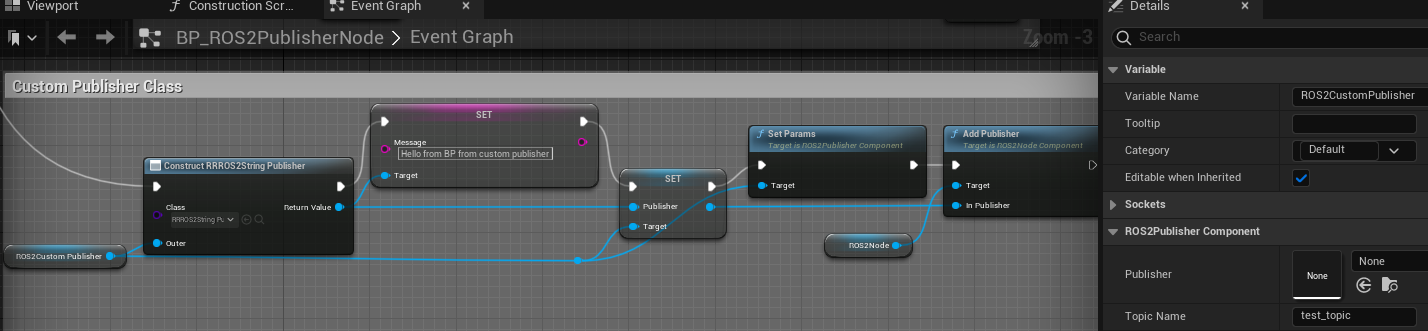
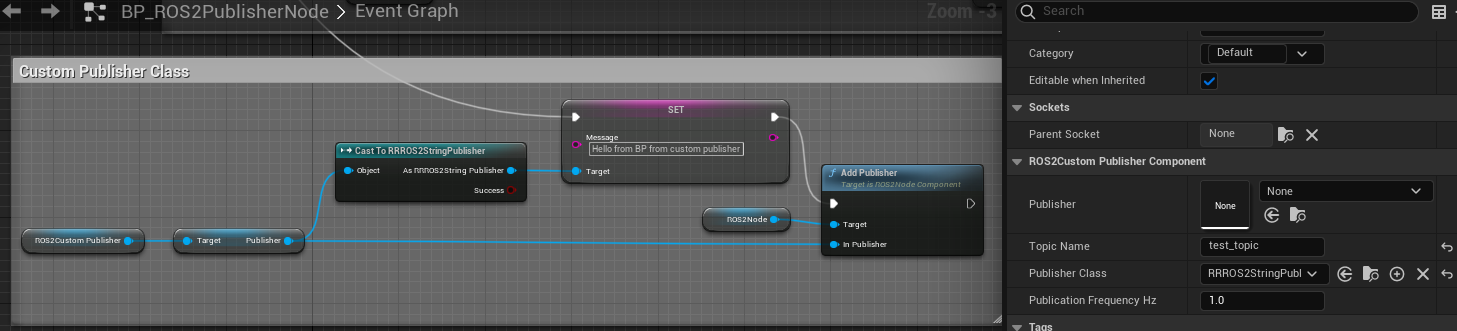
minor update

diff --git a/Source/rclUE/Public/ROS2Publisher.h b/Source/rclUE/Public/ROS2Publisher.h
@@ -284,10 +284,26 @@ public:
  *
  */
 UCLASS(Blueprintable, BlueprintType, ClassGroup = (Custom), meta = (BlueprintSpawnableComponent))
-class RCLUE_API UROS2CustomPublisherComponent : public UROS2PublisherComponent
+class RCLUE_API UROS2CustomPublisherComponent : public UActorComponent
 {
     GENERATED_BODY()
+
 public:
+    UPROPERTY(EditAnywhere, BlueprintReadWrite)
+    UROS2Publisher* Publisher = nullptr;
+
+    //! this is pass to #UROS2Publisher::TopicName in #BeginPlay
+    UPROPERTY(EditAnywhere, BlueprintReadWrite)
+    FString TopicName = TEXT("");
+
+    //! this is pass to #UROS2Publisher::PublisherClass in #BeginPlay
+    UPROPERTY(EditAnywhere, BlueprintReadWrite)
+    TSubclassOf<UROS2Publisher> PublisherClass = UROS2Publisher::StaticClass();
+
+    //! this is pass to #UROS2Publisher::PublicationFrequencyHz in #BeginPlay
+    UPROPERTY(EditAnywhere, BlueprintReadWrite)
+    float PublicationFrequencyHz = 1.f;
+
     virtual void BeginPlay() override
     {
         if (Publisher == nullptr)
@@ -298,6 +314,6 @@ public:
         {
             UE_LOG_WITH_INFO(LogTemp, Warning, TEXT("Publisher class is not created in BeginPlay."));
         }
-        UActorComponent::BeginPlay();
+        Super::BeginPlay();
     };
 };

diff --git a/docs/source/examples/publisher_example.rst b/docs/source/examples/publisher_example.rst
@@ -3,7 +3,7 @@
 Publisher Example
 =============================
 
-Please follow the instructions in  :ref:`setup_and_run_ue_project` to set up the UE project 
+Please follow the instructions in  :ref:`setup_and_run_ue_project` to set up the UE project
 and open `ROS2TopicExample.umap <https://github.com/rapyuta-robotics/turtlebot3-UE/blob/devel/Content/Maps/ROS2TopicExamples.umap>`_.
 
 -----------------------------
@@ -125,26 +125,26 @@ Code
 Code explanations
 ^^^^^^^^^^^^^^^^^^
 
-In the constructor, 
-the `UROS2NodeComponent <../doxygen_generated/html/d7/d68/class_u_r_o_s2_node_component.html>`_ 
-is created using 
-`CreateDefaultSubobject <https://docs.unrealengine.com/4.26/en-US/API/Runtime/CoreUObject/UObject/UObject/CreateDefaultSubobject/2/>`_  
+In the constructor,
+the `UROS2NodeComponent <../doxygen_generated/html/d7/d68/class_u_r_o_s2_node_component.html>`_
+is created using
+`CreateDefaultSubobject <https://docs.unrealengine.com/4.26/en-US/API/Runtime/CoreUObject/UObject/UObject/CreateDefaultSubobject/2/>`_
 and its parameters such as Node Name and Namespace are set.
 
-Although the UROS2NodeComponent is created, 
-the ROS2 Node is not yet initialized at this point. 
-Initialization of the ROS2 Node occurs during the 
-`BeginPlay <https://docs.unrealengine.com/5.1/en-US/API/Runtime/Engine/GameFramework/AActor/BeginPlay/>`_ 
+Although the UROS2NodeComponent is created,
+the ROS2 Node is not yet initialized at this point.
+Initialization of the ROS2 Node occurs during the
+`BeginPlay <https://docs.unrealengine.com/5.1/en-US/API/Runtime/Engine/GameFramework/AActor/BeginPlay/>`_
 method, which is called when the simulation starts.
 
-One reason to initialize in BeginPlay is to create a ROS2 Node when the simulation starts. 
-It is important to note that the UE Class constructor may also be called before simulation starts, for example, 
+One reason to initialize in BeginPlay is to create a ROS2 Node when the simulation starts.
+It is important to note that the UE Class constructor may also be called before simulation starts, for example,
 when an Actor is placed in the level. For a better understanding of Actor Lifecycle, please refer to the
-`UE Actor LifeCycle <https://docs.unrealengine.com/5.1/en-US/unreal-engine-actor-lifecycle/>`_ 
+`UE Actor LifeCycle <https://docs.unrealengine.com/5.1/en-US/unreal-engine-actor-lifecycle/>`_
 However, understanding the entire lifecycle is not necessary to use rclUE.
 
-Another significant difference is that by initializing in BeginPlay, 
-variables such as publication frequency can be set in the editor and 
+Another significant difference is that by initializing in BeginPlay,
+variables such as publication frequency can be set in the editor and
 their changes will be reflected when running the simulation.
 If, in contrast, we initialize things in the constructor,
 variables changed in the editor would not reflect in the simulation,
@@ -161,7 +161,7 @@ unless we restart the editor.
         Node->Namespace = TEXT("cpp");
     }
 
-When simulation starts, BeginPlay is called. In the BeginPlay, 
+When simulation starts, BeginPlay is called. In the BeginPlay,
 firstly create and initialize ROS2 Node by calling
 `UROS2NodeComponent::Init  <../doxygen_generated/html/d7/d68/class_u_r_o_s2_node_component.html#ab9b7b990c4ca38eb60acf8e0a53c3e52>`_
 .
@@ -180,19 +180,19 @@ then starts adding publishers. We introduce 3 ways to add publisher here.
 Non Loop Publisher
 ~~~~~~~~~~~~~~~~~~~~~~
 
-This will create a publisher and publish a message once. 
-It is a straightforward way to publish a message, 
+This will create a publisher and publish a message once.
+It is a straightforward way to publish a message,
 involving creating a publisher, creating a message, and publishing the message.
 
-To create a publisher, use 
+To create a publisher, use
 `UROS2NodeComponent::CreatePublisher  <../doxygen_generated/html/d7/d68/class_u_r_o_s2_node_component.html#a5a7cb19de75e1970894efe2dcb4ac57c>`_
 
-Create a structure (FROSStr) for the contrasting message (UROSStrMsg) and 
-assign characters to the Data field. 
+Create a structure (FROSStr) for the contrasting message (UROSStrMsg) and
+assign characters to the Data field.
 Then, assign the structure to the message using the SetMsg method.
 
-Finally, call the 
-`UROS2Publisher::Publish <../doxygen_generated/html/d6/dd4/class_u_r_o_s2_publisher.html#a1c80608e01c7bdeb74ffe3bb82112222>`_ 
+Finally, call the
+`UROS2Publisher::Publish <../doxygen_generated/html/d6/dd4/class_u_r_o_s2_publisher.html#a1c80608e01c7bdeb74ffe3bb82112222>`_
 method to publish the topic.
 
 .. code-block:: C++
@@ -212,10 +212,10 @@ method to publish the topic.
 Loop Publisher
 ~~~~~~~~~~~~~~~~~~~~~~
 
-You can create a loop publisher by using the 
+You can create a loop publisher by using the
 `ROS2_CREATE_LOOP_PUBLISHER_WITH_QOS <../doxygen_generated/html/d1/d79/_r_o_s2_node_component_8h.html#aa037d93e1d31d5436f12553248889060>`_
-macro. 
-This macro creates a publisher and adds it to the node, 
+macro.
+This macro creates a publisher and adds it to the node,
 and then it periodically calls the AROS2PublisherNode::UpdateMessage method.
 
 .. code-block:: C++
@@ -231,8 +231,8 @@ and then it periodically calls the AROS2PublisherNode::UpdateMessage method.
                                             UROS2QoS::Default,
                                             LoopPublisher);
 
-UpdateMessage method does similar things as a non-loop publisher. 
-Since the loop publisher automatically calls the "Publish()" method, 
+UpdateMessage method does similar things as a non-loop publisher.
+Since the loop publisher automatically calls the "Publish()" method,
 you only need to create and set the message.
 
 .. code-block:: C++
@@ -244,9 +244,9 @@ you only need to create and set the message.
         CastChecked<UROS2StrMsg>(InMessage)->SetMsg(msg);
     }
 
-The implementation of ROS2_CREATE_LOOP_PUBLISHER_WITH_QOS is as follows. 
-It uses Unreal Engine's dynamic delegate to call a bound function periodically. 
-You can find more information about Unreal Engine's dynamic delegate 
+The implementation of ROS2_CREATE_LOOP_PUBLISHER_WITH_QOS is as follows.
+It uses Unreal Engine's dynamic delegate to call a bound function periodically.
+You can find more information about Unreal Engine's dynamic delegate
 `here <https://docs.unrealengine.com/5.1/en-US/dynamic-delegates-in-unreal-engine/>`_.
 
 .. code-block:: C++
@@ -266,7 +266,7 @@ You can find more information about Unreal Engine's dynamic delegate
 Custom Publisher class
 ~~~~~~~~~~~~~~~~~~~~~~
 
-You can create a publisher by defining a child class of UROS2Publisher. 
+You can create a publisher by defining a child class of UROS2Publisher.
 This is useful when you want to add some custom logic to the publisher that will be used in multiple places.
 
 .. code-block:: C++
@@ -277,11 +277,11 @@ This is useful when you want to add some custom logic to the publisher that will
             Node->CreateLoopPublisherWithClass(TopicName, URRROS2StringPublisher::StaticClass(), 1.f));
         StringPublisher->Message = FString::Printf(TEXT("%s from custom class"), *Message);
 
-The implementation of UROS2StringPublisher is as follows. 
+The implementation of UROS2StringPublisher is as follows.
 UROS2StringPublisher is a child class of UROS2Publisher.
 
-The constructor is used to set default publisher settings. 
-You can add user-defined logic by overriding the UpdateMessage method, 
+The constructor is used to set default publisher settings.
+You can add user-defined logic by overriding the UpdateMessage method,
 which is called periodically if PublicationFrequencyHz > 0.
 
 .. code-block:: C++
@@ -311,7 +311,7 @@ which is called periodically if PublicationFrequencyHz > 0.
 BP Publisher
 -----------------------------
 
-Blueprint implementation of a publisher is very similar to a C++ implementation. 
+Blueprint implementation of a publisher is very similar to a C++ implementation.
 Blueprints allow you to set logic/processes, parameters, and other details from the editor.
 
 You can add component such as UROS2Publisher from `Components` panel in the editor(left side in the fig below)
@@ -326,12 +326,12 @@ Overview of BP Publisher
 .. image:: ../images/publisher_overview.png
 
 
-Similar to the C++ implementation, the BP class has three types of publishers: 
+Similar to the C++ implementation, the BP class has three types of publishers:
 Non-Loop Publisher, Loop Publisher, and Custom Publisher.
 
-The main difference from the C++ implementation is that it uses 
+The main difference from the C++ implementation is that it uses
 `UROS2PublisherComponent <../doxygen_generated/html/db/d27/class_u_r_o_s2_publisher_component.html>`_
-instead of UROS2Publisher. 
+instead of UROS2Publisher.
 As UROS2PublisherComponent is a child class of `UActorComponent <https://docs.unrealengine.com/5.1/en-US/API/Runtime/Engine/Components/UActorComponent/>`_
 and has UROS2Publisher as a member variable, you can easily add it to the Actor and set parameters from the editor.
 
@@ -343,8 +343,8 @@ Details of BP Publisher
 
 .. image:: ../images/publisher_node.png
 
-Initialize the ROS2 Node using the BeginPlay event. 
-You can set the ROSNode parameters, such as Name and Namespace, 
+Initialize the ROS2 Node using the BeginPlay event.
+You can set the ROSNode parameters, such as Name and Namespace,
 from the `Details` panel on the right.
 
 Non Loop Publisher
@@ -352,11 +352,11 @@ Non Loop Publisher
 
 .. image:: ../images/publisher_non_loop.png
 
-Compared to C++, which uses CreatePublisher(), 
-in Blueprint, the Publisher is already generated as a Component before BeginPlay. 
-Therefore, we use 
-`UROS2NodeComponent::AddPublisher <../doxygen_generated/html/d7/d68/class_u_r_o_s2_node_component.html#a582299af64efaaa34b046c00b1c96828>_` 
-to initialize the Publisher instead. 
+Compared to C++, which uses CreatePublisher(),
+in Blueprint, the Publisher is already generated as a Component before BeginPlay.
+Therefore, we use
+`UROS2NodeComponent::AddPublisher <../doxygen_generated/html/d7/d68/class_u_r_o_s2_node_component.html#a582299af64efaaa34b046c00b1c96828>_`
+to initialize the Publisher instead.
 The CreatePublisher function in C++ internally calls AddPublisher.
 
 You can see that parameters such as Topic Name, Publisher Class, and Msg Class are set in the right `Details` panel.
@@ -366,7 +366,7 @@ Loop Publisher
 
 .. image:: ../images/publisher_loop.png
 
-Callback function is bound to a custom event, indicated by the red node in the center. 
+Callback function is bound to a custom event, indicated by the red node in the center.
 This callback function is executed at regular intervals with a specified frequency.
 
 Custom Publisher class
@@ -374,5 +374,4 @@ Custom Publisher class
 
 .. image:: ../images/publisher_custom.png
 
-To set parameters for a custom publisher object, 
-we need to create a variable of the custom publisher class and then assign it to the publisher component.
+Since custom publisher class is alreay set class, callbak and etc, we just need to add it to the node.
